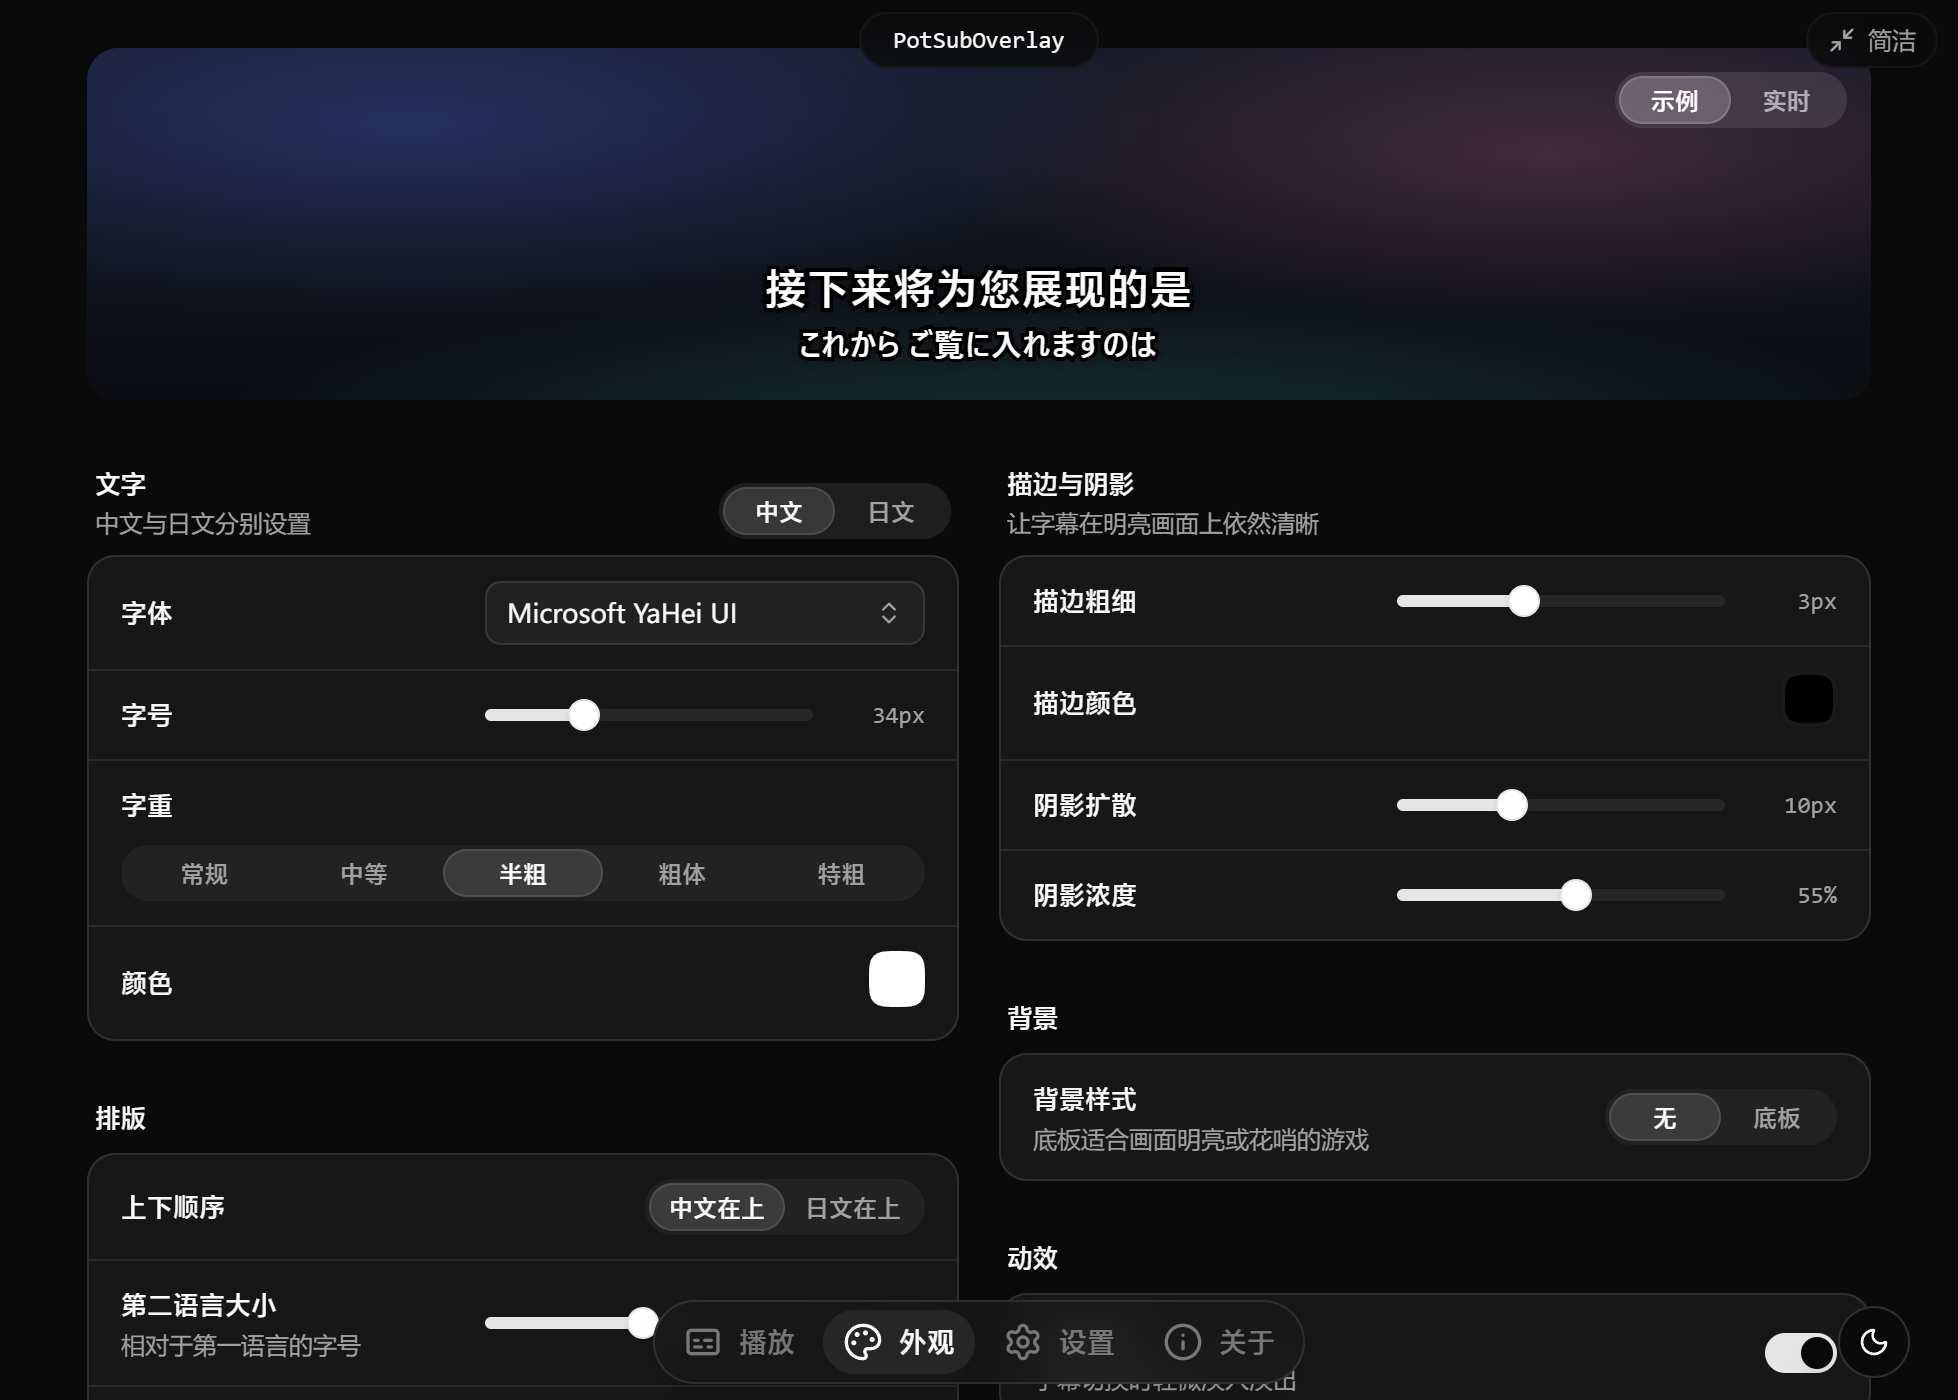
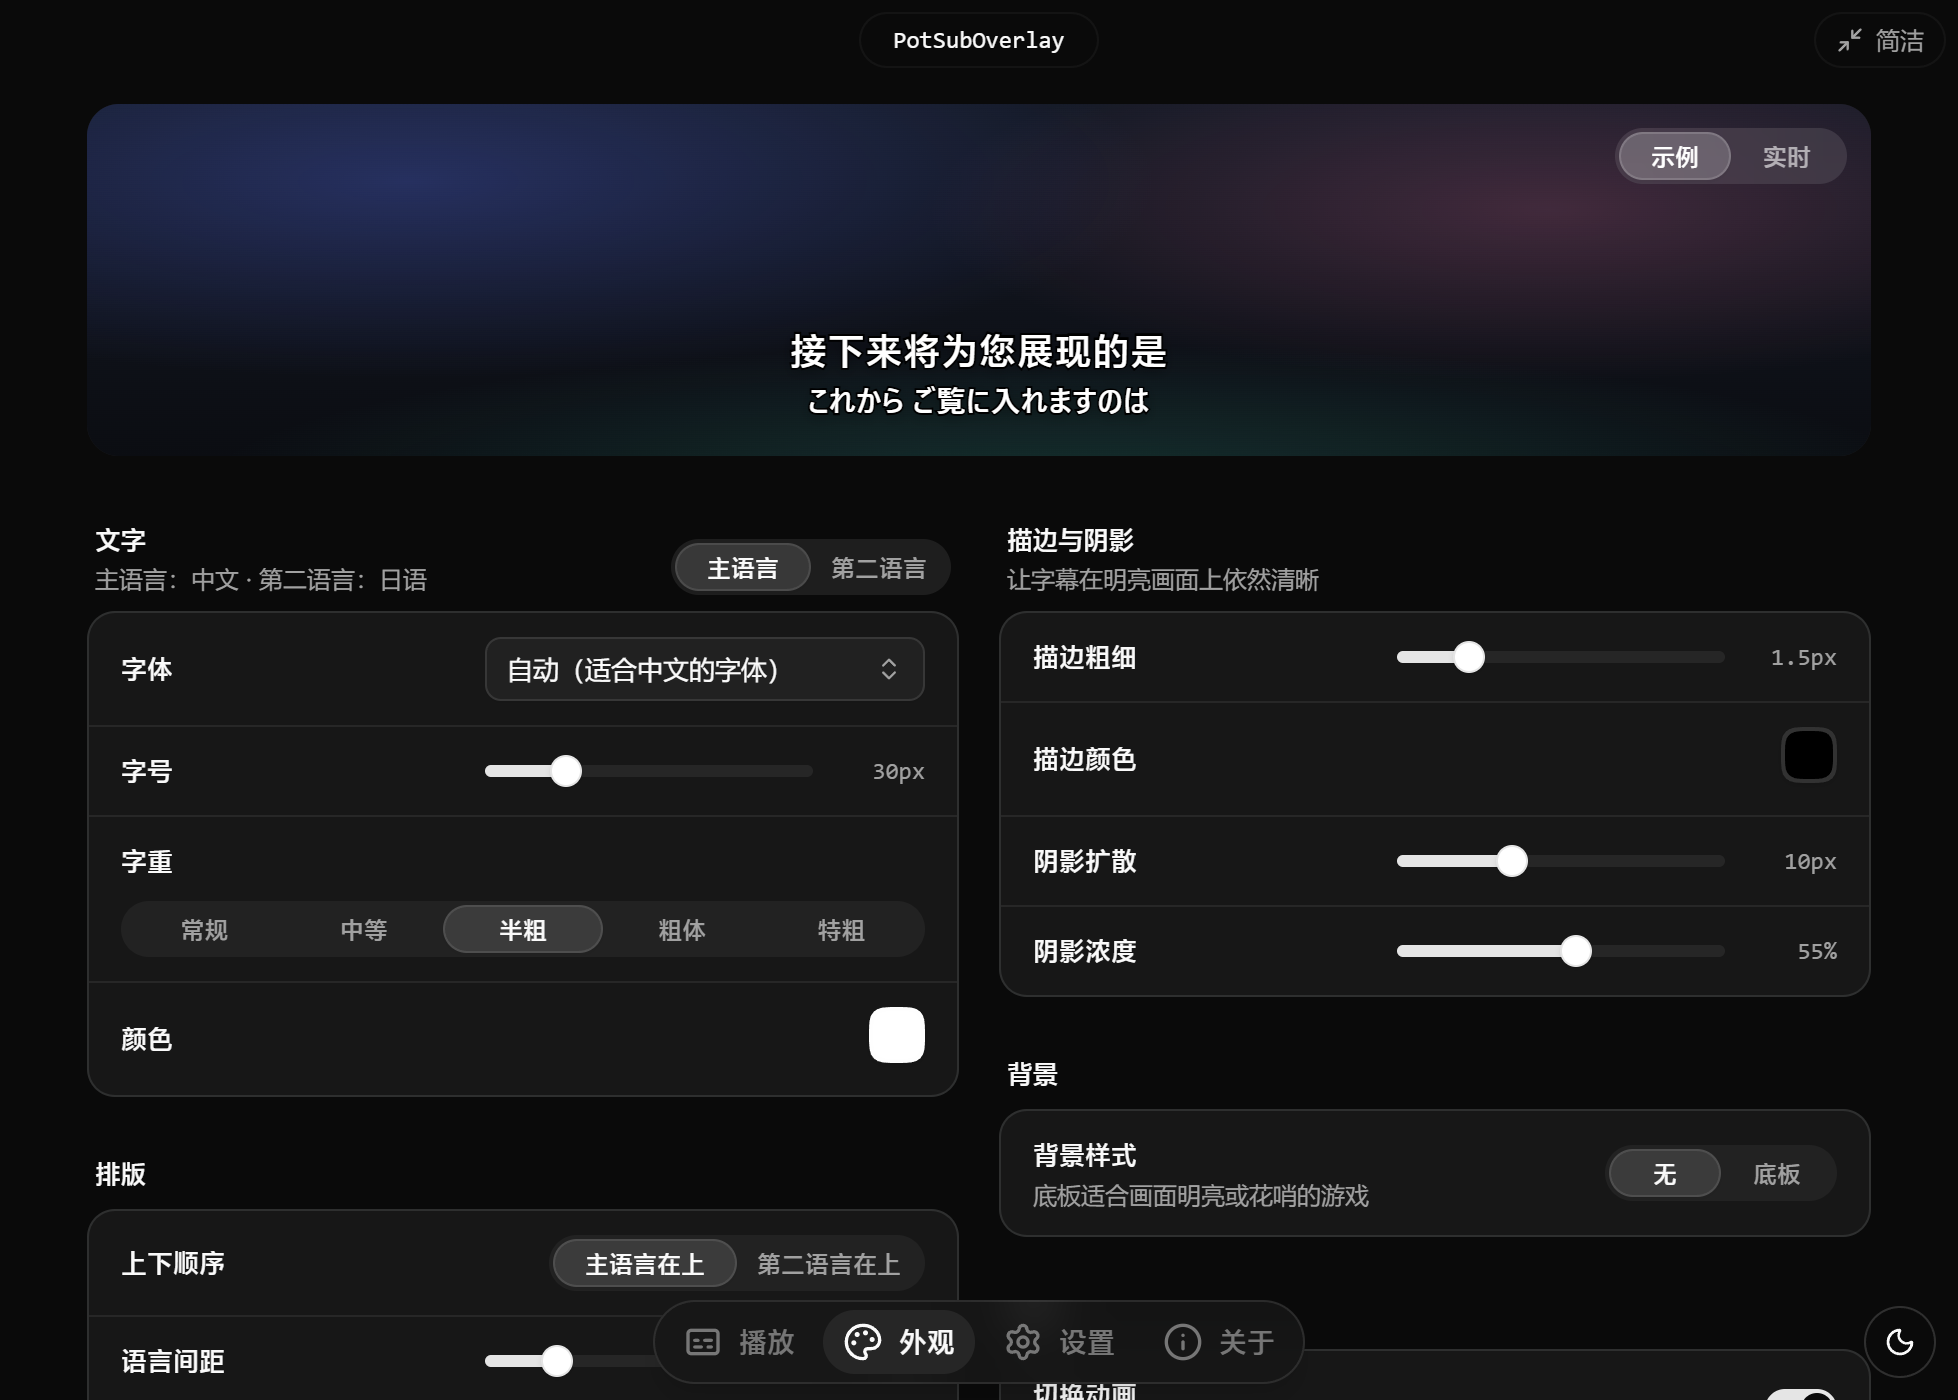
docs: refresh README screenshots for 1.1
Retake every README image with the 1.1 UI and copy: the main window with
Chinese + Japanese, appearance settings by primary / second language, the
position editor, compact mode with Chinese + English, and the new tray
menu. The dev fake player gains duration and `hold` options so a single
subtitle stays on screen while the shots are taken.

diff --git a/electron/main/player/fake.ts b/electron/main/player/fake.ts
@@ -3,8 +3,10 @@ import type { PlayerBridge, PotTimes, PotWindow } from "./potplayer";
 
 /**
  * Development-only stand-in for PotPlayer, enabled with POTSUB_FAKE_PLAYER.
- * Format: "<media path>" or "<media path>|<start ms>". Lets the UI be
- * exercised without touching the user's real player.
+ * Format: "<media path>[|<start ms>[|<duration ms>[|hold]]]". With "hold" the
+ * position stays at the start (still reported as playing), which keeps one
+ * subtitle on screen for documentation screenshots. Lets the UI be exercised
+ * without touching the user's real player.
  */
 export class FakePlayerBridge implements PlayerBridge {
   private readonly startedAt = Date.now();
@@ -12,12 +14,18 @@ export class FakePlayerBridge implements PlayerBridge {
   constructor(
     private readonly mediaPath: string,
     private readonly startMs: number,
-    private readonly durationMs = 24 * 60_000
+    private readonly durationMs = 24 * 60_000,
+    private readonly hold = false
   ) {}
 
   static fromEnv(value: string): FakePlayerBridge {
-    const [mediaPath, start] = value.split("|");
-    return new FakePlayerBridge(mediaPath, Number(start) || 0);
+    const [mediaPath, start, duration, mode] = value.split("|");
+    return new FakePlayerBridge(
+      mediaPath,
+      Number(start) || 0,
+      Number(duration) || 24 * 60_000,
+      mode === "hold"
+    );
   }
 
   discover(): PotWindow[] {
@@ -29,7 +37,8 @@ export class FakePlayerBridge implements PlayerBridge {
   }
 
   queryPosition() {
-    const positionMs = (this.startMs + Date.now() - this.startedAt) % this.durationMs;
+    const elapsed = this.hold ? 0 : Date.now() - this.startedAt;
+    const positionMs = (this.startMs + elapsed) % this.durationMs;
     return { positionMs, state: "playing" as const };
   }
 

diff --git a/README.md b/README.md
@@ -39,9 +39,11 @@
 
 - 简体中文 / 繁體中文 / English / 日本語 界面，浅色 / 深色主题，托盘常驻（菜单与应用同一套设计），开机启动。
 
-| 外观设置 | 调整位置 | 简洁模式 |
-|---|---|---|
-| ![外观](docs/images/appearance-dark.png) | ![调整位置](docs/images/edit-position.png) | ![简洁模式](docs/images/compact.png) |
+| 外观设置（深色） | 调整字幕位置 |
+|---|---|
+| ![外观设置：主语言与第二语言分别设置样式](docs/images/appearance-dark.png) | ![调整字幕位置：拖动移动、拖动两侧调整宽度](docs/images/edit-position.png) |
+| **简洁模式（中英双语）** | **托盘菜单** |
+| ![简洁模式：中英双语字幕](docs/images/compact.png) | ![托盘菜单](docs/images/tray-menu.png) |
 
 ## 使用
 
@@ -97,7 +99,7 @@ corepack pnpm icons:build
 
 发布或合入用户可见的改动时请更新 [CHANGELOG.md](CHANGELOG.md)（格式见 [docs/CHANGELOG_TEMPLATE.md](docs/CHANGELOG_TEMPLATE.md)），`check` 会检查当前版本是否有对应条目。
 
-开发调试时可以设置环境变量 `POTSUB_FAKE_PLAYER="<媒体路径>|<起始毫秒>"`，用模拟播放器代替 PotPlayer；`POTSUB_QA_SCRIPT` 可以驱动窗口截图做视觉验收（见 `electron/main/qa.ts`）。
+开发调试时可以设置环境变量 `POTSUB_FAKE_PLAYER="<媒体路径>|<起始毫秒>|<时长毫秒>|hold"`（后两项可省略；`hold` 让进度停在起始位置，便于截图），用模拟播放器代替 PotPlayer；`POTSUB_QA_SCRIPT` 可以驱动窗口截图做视觉验收（见 `electron/main/qa.ts`）。
 
 技术栈：Electron 41 · React 19 · TypeScript · Vite · Tailwind CSS 4 · shadcn/ui · [qiuye-ui](https://ui.qiuyedx.com/) · Motion · Zustand · i18next · koffi，基于 [qiuye-electron-template](https://github.com/QiuYeDx/qiuye-electron-template)（`electron-modern`）。
 

diff --git a/CHANGELOG.md b/CHANGELOG.md
@@ -2,6 +2,13 @@
 
 本项目的所有重要更改都将记录在此文件中。格式参考 [Keep a Changelog](https://keepachangelog.com/zh-CN/1.1.0/)，版本号遵循 [语义化版本](https://semver.org/lang/zh-CN/)。
 
+## [Unreleased]
+
+### 测试与文档
+
+- 更新 README 截图：主界面（中日双语）、外观设置、调整位置、简洁模式（中英双语），并新增托盘菜单截图
+- 开发用模拟播放器 `POTSUB_FAKE_PLAYER` 新增时长与 `hold` 参数，可把进度固定在某一句字幕上，方便截取文档配图
+
 ## [1.1.0] - 2026-10-08
 
 ### 新增
